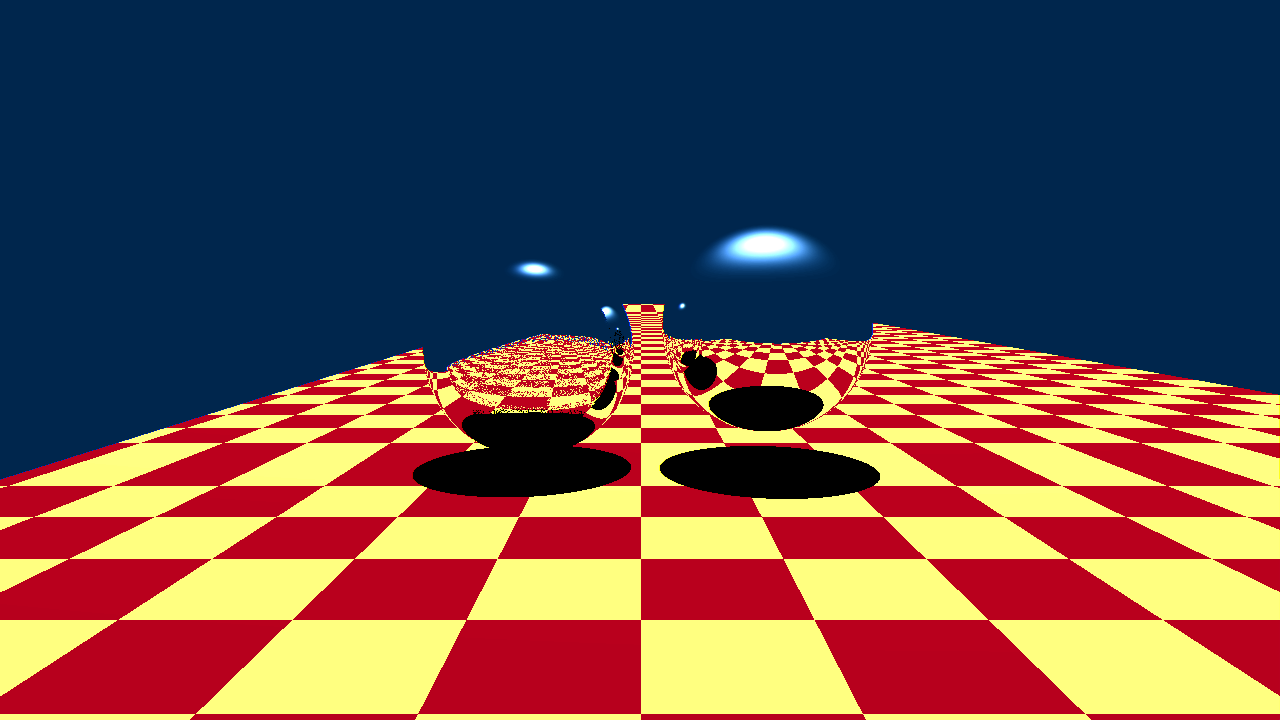
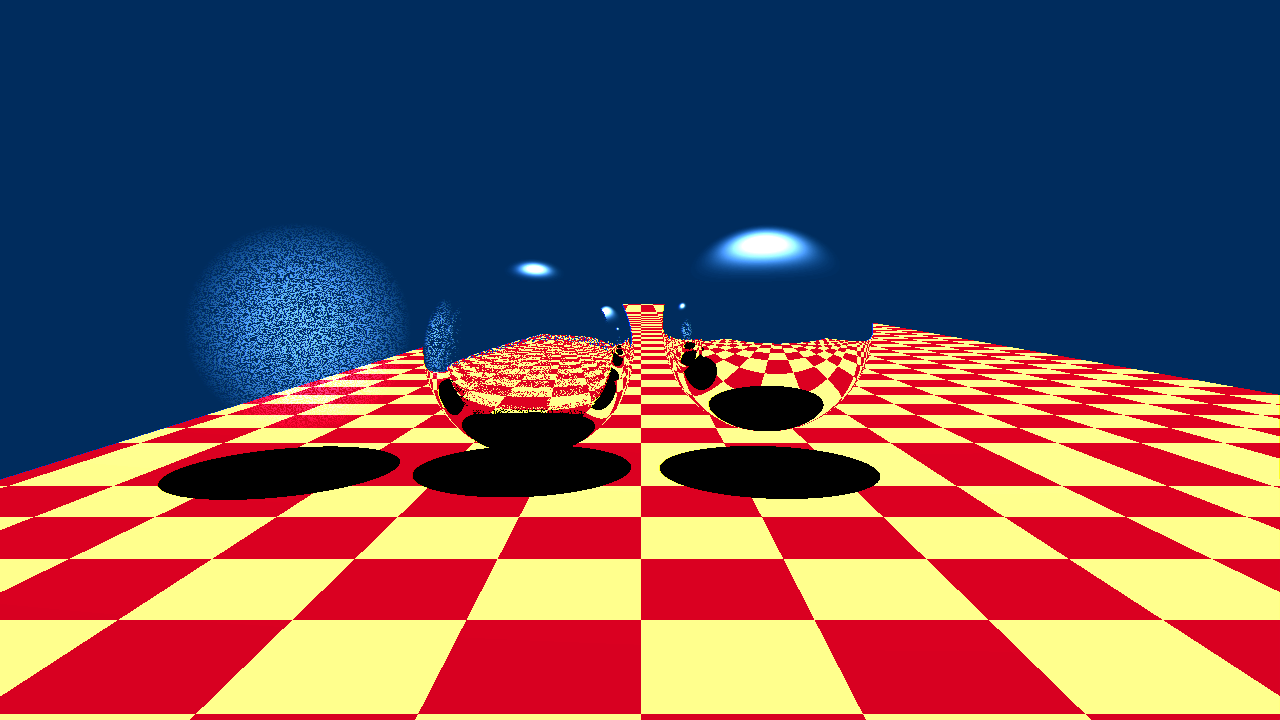
Added volumetrics

Changed region(s): [[0.0, 0.3056, 1.0, 1.0], [0.5625, 0.3056, 0.6562, 0.3972], [0.4062, 0.3667, 0.4375, 0.3972]]

diff --git a/RayTracer/RayTracer/RayTracer.cpp b/RayTracer/RayTracer/RayTracer.cpp
@@ -12,12 +12,13 @@
 
 #include "Phong.h"
 #include "CheckerBoard.h"
+#include <time.h>
 
 using namespace std;
 
 // Object data
 const int tri_count = 2;
-const int sph_count = 2;
+const int sph_count = 3;
 
 Triangle_Data tri_arr[tri_count];
 Sphere_Data sph_arr[sph_count];
@@ -38,7 +39,12 @@ LightSource* lights[light_count];
 
 // Misc settings
 const float error_tolerance = 0.01f;
-const int max_bounce = 3;
+const int max_bounce = 10;
+
+glm::vec3 randDirection() {
+	glm::vec3 random = glm::normalize(glm::vec3(rand(), rand(), rand())) - 0.5f;
+	return glm::normalize(random);
+}
 
 Intersection findIntersection(glm::vec3 v, glm::vec3 v0 = glm::vec3(0)) {
 	Intersection nearest = Intersection();
@@ -56,7 +62,7 @@ Intersection findIntersection(glm::vec3 v, glm::vec3 v0 = glm::vec3(0)) {
 	return nearest;
 }
 
-Color illuminate(glm::vec3 v, glm::vec3 v0, int bounce_depth) {
+Color illuminate(glm::vec3 v, glm::vec3 v0, int bounce_depth, bool volume = false) {
 	Intersection nearest = findIntersection(v, v0);
 
 	Color out_color = Color(0, 10, 40) * 50;
@@ -81,17 +87,20 @@ Color illuminate(glm::vec3 v, glm::vec3 v0, int bounce_depth) {
 		float kr = 0;
 		float kt = 0;
 		float IOR = 1.f;
+		float i_density = 0.f;
 		switch (nearest.type)
 		{
 		case SPHERE:
 			kr = sph_mats[nearest.index]->kr;
 			kt = sph_mats[nearest.index]->kt;
 			IOR = sph_mats[nearest.index]->IOR;
+			i_density = sph_mats[nearest.index]->i_density;
 			break;
 		case TRIANGLE:
 			kr = tri_mats[nearest.index]->kr;
 			kt = tri_mats[nearest.index]->kt;
 			IOR = tri_mats[nearest.index]->IOR;
+			i_density = tri_mats[nearest.index]->i_density;
 			break;
 		}
 
@@ -140,7 +149,19 @@ Color illuminate(glm::vec3 v, glm::vec3 v0, int bounce_depth) {
 					t = IOR * v + (IOR * cosI - cosT) * n;
 				}
 
-				out_color = out_color + illuminate(t, nearest.point, bounce_depth + 1) * kt;
+				if (i_density > 0) {
+					if (volume) {
+						float dist2 = powf(glm::length(v0 - nearest.point), 2);
+						out_color = out_color + illuminate(t, nearest.point, bounce_depth + 1, true) + Color(255, 255, 255) * dist2;
+					}
+					else
+					{
+						out_color = out_color + illuminate(t, nearest.point, bounce_depth + 1, true);
+					}
+				}
+				else {
+					out_color = out_color + illuminate(t, nearest.point, bounce_depth + 1) * kt;
+				}
 			}
 		}
 	}
@@ -149,7 +170,6 @@ Color illuminate(glm::vec3 v, glm::vec3 v0, int bounce_depth) {
 }
 
 int main() {
-
 	Image img = Image(width, height, channels);
 
 	Camera testCam = Camera(
@@ -192,11 +212,14 @@ int main() {
 	// Initialize object data
 	//sph_arr[0] = Sphere_Data{ glm::vec3(27.54, -2.88, 2.27), 1.1f };
 	sph_arr[0] = Sphere_Data{ glm::vec3(25, -0.75, 3.5f), 1.1f };
-	sph_mats[0] = new Phong(0.1f, 0.f, 0.6f, 75.f, 0.f, 1.f, 0.8f, Color(255, 255, 255), Color(255, 255, 255));
+	sph_mats[0] = new Phong(0.1f, 0.f, 0.6f, 75.f, 0.f, 1.f, 0.8f, 0.f, Color(255, 255, 255), Color(255, 255, 255));
 
 	//sph_arr[1] = Sphere_Data{ glm::vec3(29.94, -4.73, 2.82), 1.1f };
 	sph_arr[1] = Sphere_Data{ glm::vec3(25, -1, 1), 1.1f };
-	sph_mats[1] = new Phong(0.1f, 0.f, 0.6f, 10.f, 1.f, 0.0f, 0.0f, Color(255, 255, 255), Color(255, 255, 255));
+	sph_mats[1] = new Phong(0.1f, 0.f, 0.6f, 10.f, 1.f, 0.0f, 0.0f, 0.f, Color(255, 255, 255), Color(255, 255, 255));
+
+	sph_arr[2] = Sphere_Data{ glm::vec3(25, -1, 5.9f), 1.1f };
+	sph_mats[2] = new Phong(0.f, 0.f, 0.f, 0.f, 0.f, 1.f, 1.f, 0.1f, Color(255, 255, 255), Color(255, 255, 255));
 
 	tri_arr[0] = Triangle_Data{ glm::vec3(32, 0.44, 8.6), glm::vec3(-32, 0.44, 8.6), glm::vec3(32, 0.44, -8.6) };
 	tri_mats[0] = new CheckerBoard(glm::vec3(32.f, 0.44, 8.6), 1.f, 1.f, Color(187, 187, 61), Color(173, 1, 16));
@@ -205,7 +228,7 @@ int main() {
 	tri_mats[1] = new CheckerBoard(glm::vec3(32.f, 0.44, 8.6), 1.f, 1.f, Color(187, 187, 61), Color(173, 1, 16));
 
 	// Apply world to camera transform
-	for (int i = 0; i < sph_count; ++i) { sph_arr[i] = Sphere::transform(testCam.worldToCamera, sph_arr[i]);  }
+	for (int i = 0; i < sph_count; ++i) { sph_arr[i] = Sphere::transform(testCam.worldToCamera, sph_arr[i]);   }
 	for (int i = 0; i < tri_count; ++i) { tri_arr[i] = Triangle::transform(testCam.worldToCamera, tri_arr[i]); }
 
 	// Initialize light data

diff --git a/RayTracer/RayTracer/Phong.cpp b/RayTracer/RayTracer/Phong.cpp
@@ -9,7 +9,7 @@ Phong::Phong() {
 	specular = Color(255, 255, 255);
 }
 
-Phong::Phong(float _ka, float _kd, float _ks, float _ke, float _kr, float _kt, float _IOR, Color _diffuse, Color _specular) {
+Phong::Phong(float _ka, float _kd, float _ks, float _ke, float _kr, float _kt, float _IOR, float _i_density, Color _diffuse, Color _specular) {
 	ka =_ka;
 	kd = _kd;
 	ks = _ks;
@@ -17,6 +17,7 @@ Phong::Phong(float _ka, float _kd, float _ks, float _ke, float _kr, float _kt, f
 	kr = _kr;
 	kt = _kt;
 	IOR = _IOR;
+	i_density = _i_density;
 	diffuse = _diffuse;
 	specular = _specular;
 }

diff --git a/RayTracer/RayTracer/Phong.h b/RayTracer/RayTracer/Phong.h
@@ -6,7 +6,7 @@ class Phong : public BSDF
 {
 public:
 	Phong();
-	Phong(float _ka, float _kd, float _ks, float _ke, float _kr, float _kt, float _IOR, Color _diffuse, Color _specular);
+	Phong(float _ka, float _kd, float _ks, float _ke, float _kr, float _kt, float _IOR, float _i_density, Color _diffuse, Color _specular);
 
 	virtual Color illuminate(Intersection intersection, LightSource light) override;
 

diff --git a/RayTracer/RayTracer/BSDF.h b/RayTracer/RayTracer/BSDF.h
@@ -11,5 +11,6 @@ public:
 	float kr = 0;
 	float kt = 0;
 	float IOR = 1.f;
+	float i_density = 0;
 };
 
